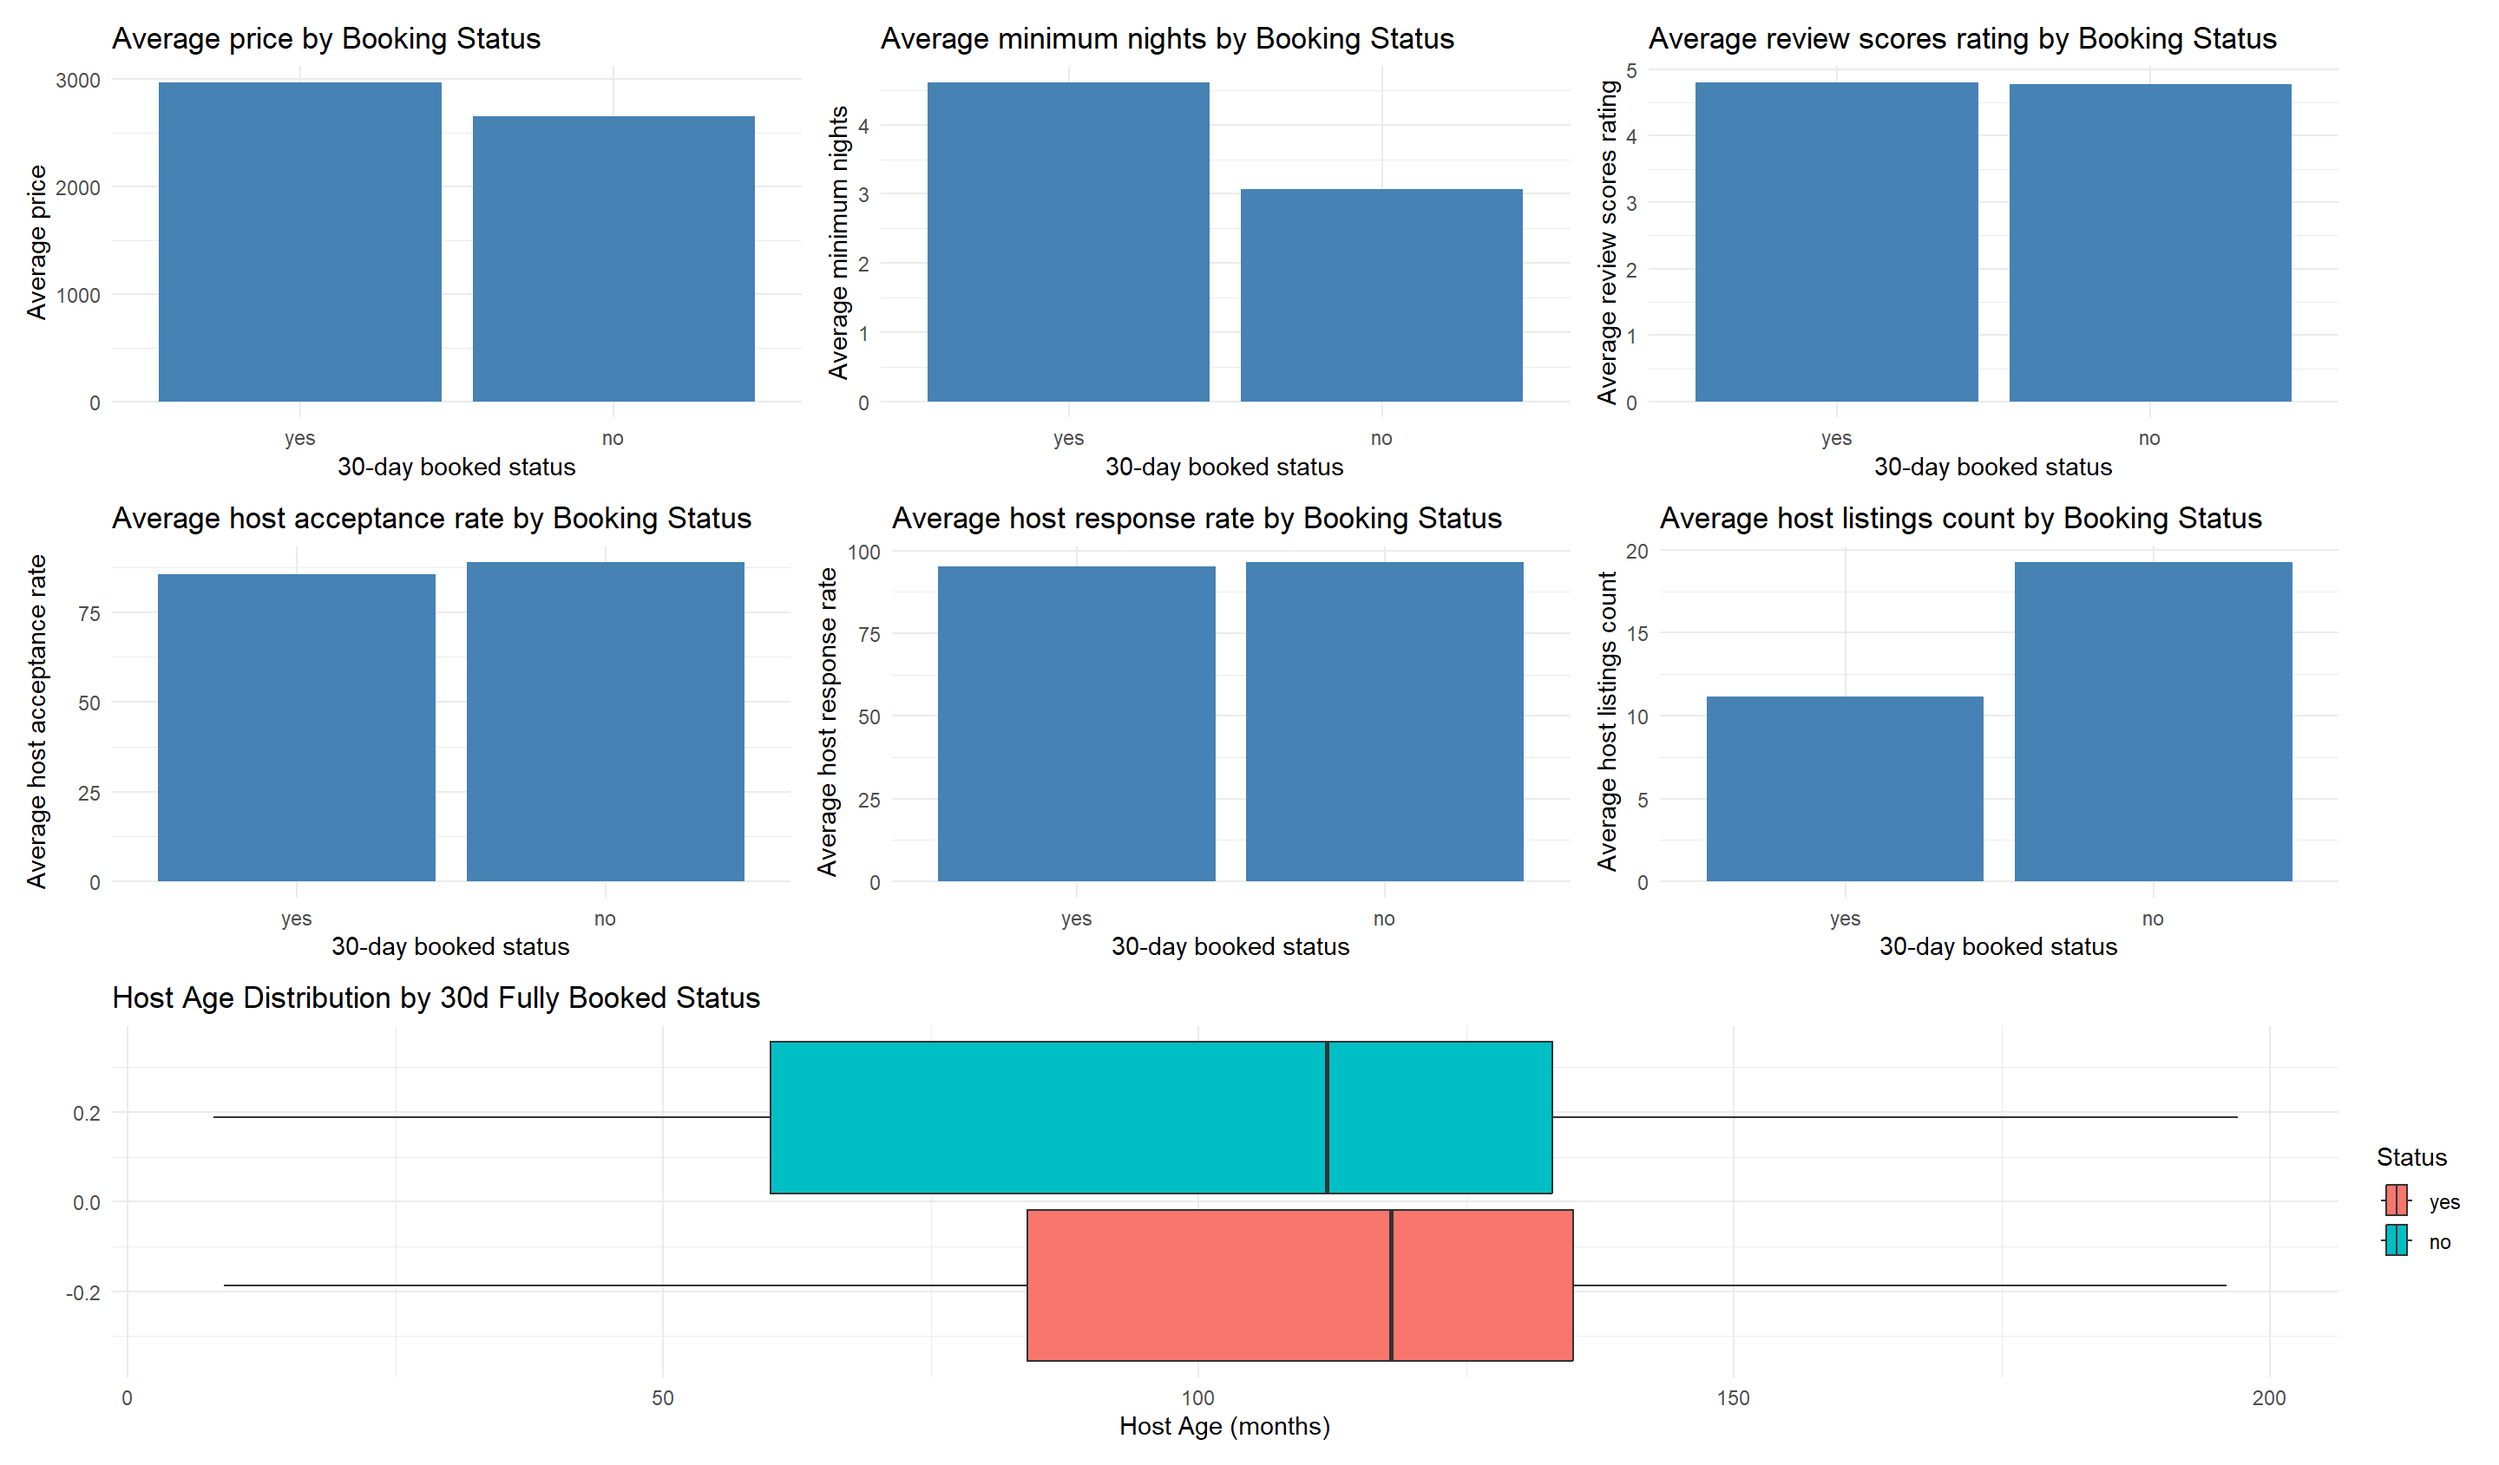
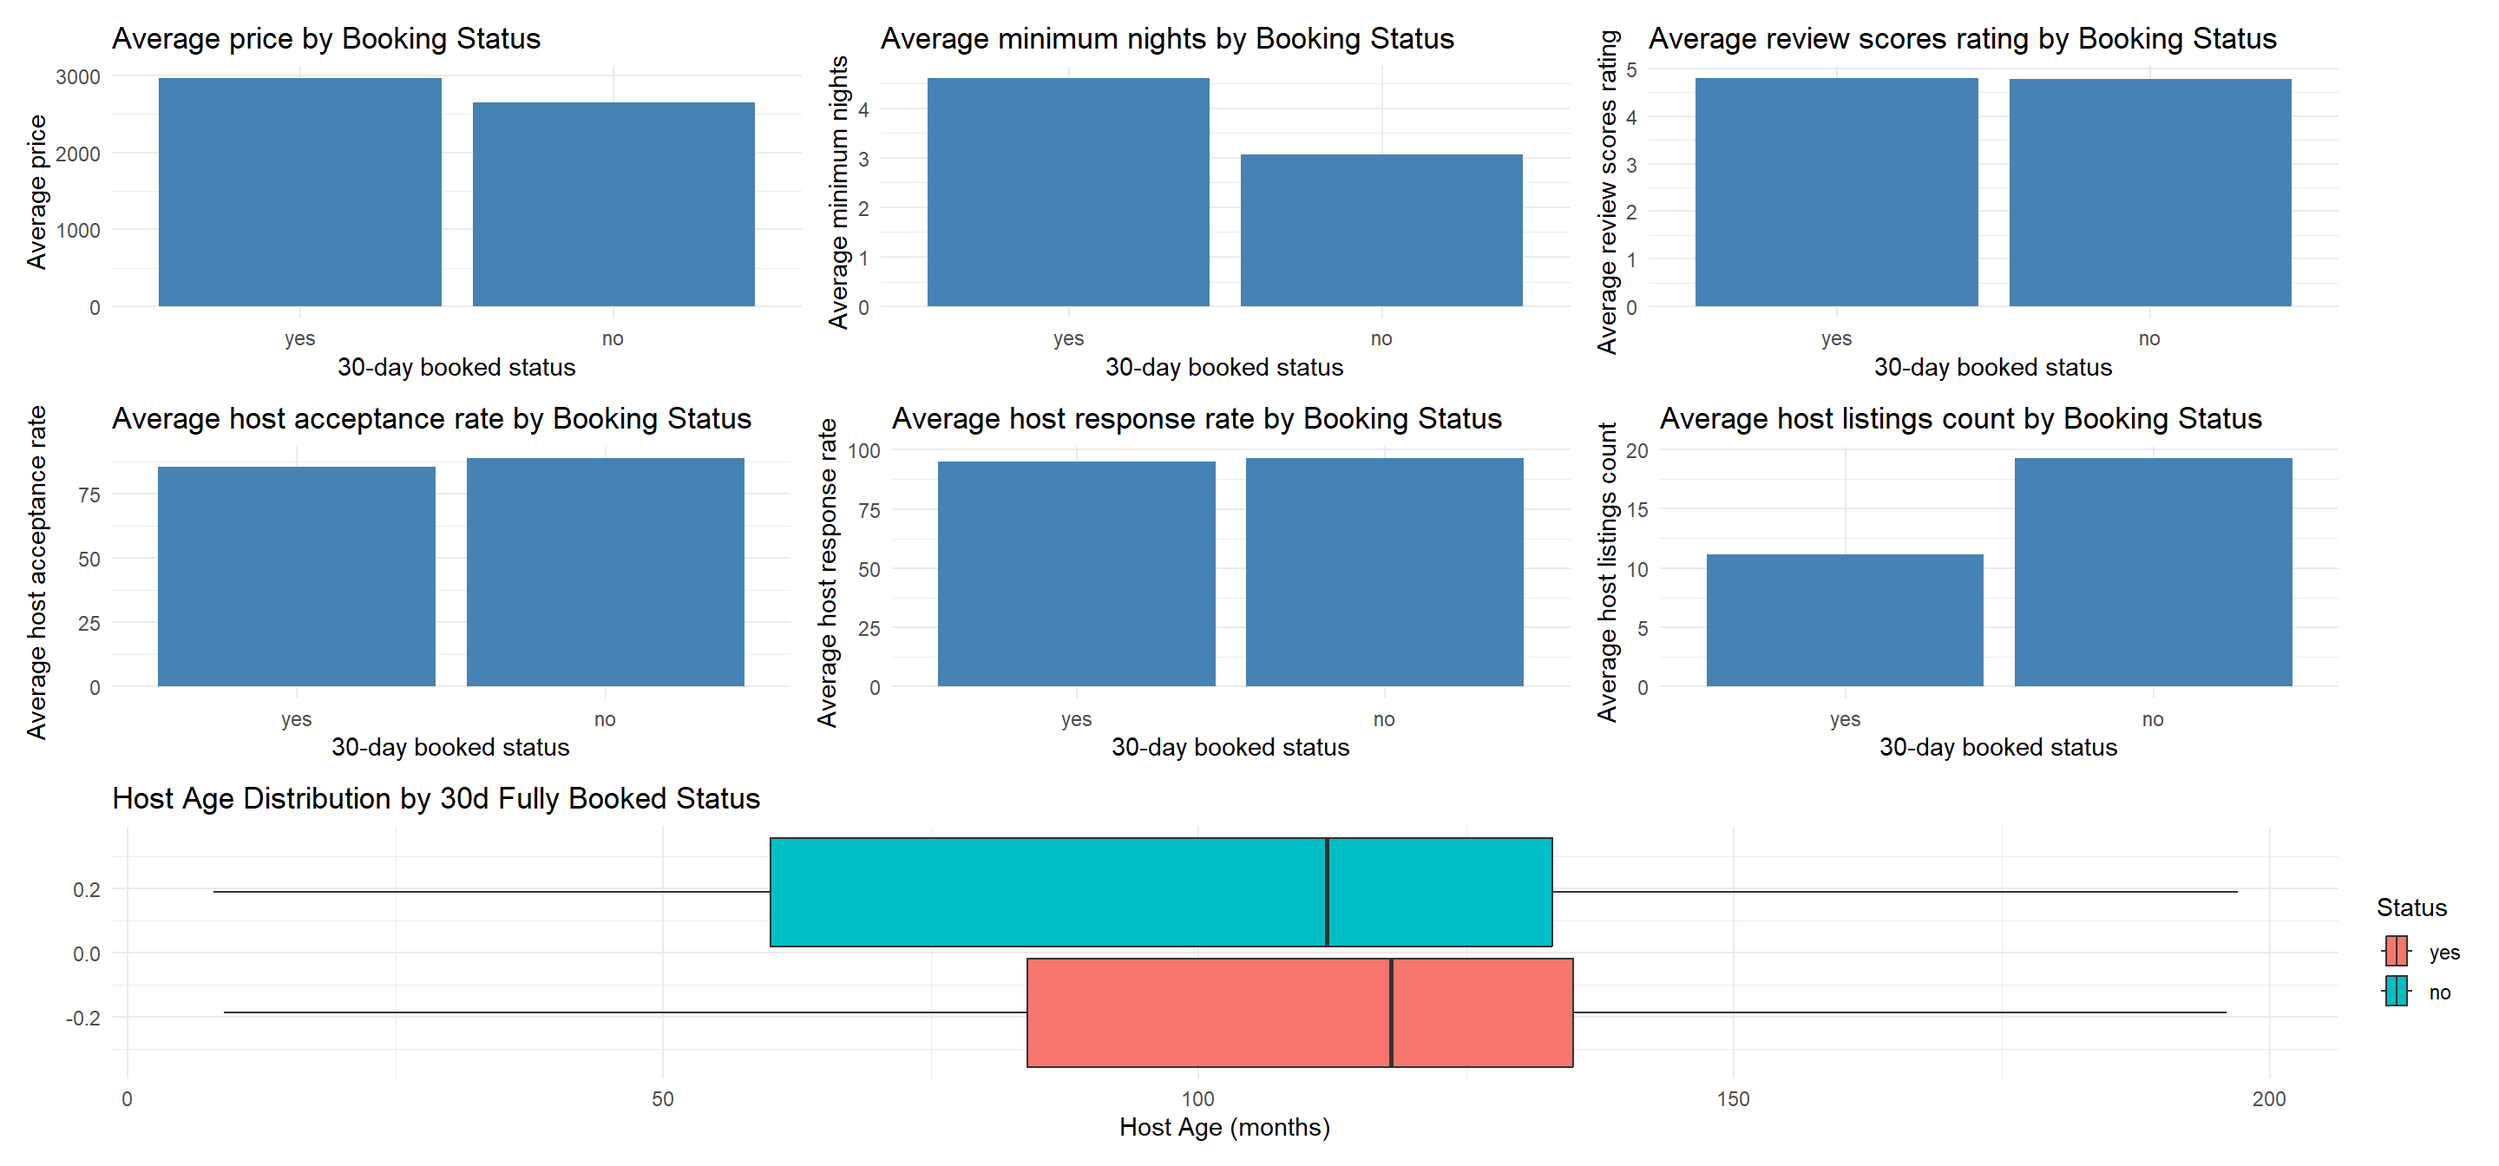
need a 30 min break

diff --git a/AirBnB_actual_presentation.html b/AirBnB_actual_presentation.html
@@ -150,6 +150,7 @@ Pamela Afful
 <li><a href="#/model-training" id="/toc-model-training">Model Training</a>
 <ul>
 <li><a href="#/linear-kernel-svm" id="/toc-linear-kernel-svm">Linear Kernel SVM</a></li>
+<li><a href="#/non-linear-svm-tuning-summary" id="/toc-non-linear-svm-tuning-summary">Non-Linear SVM Tuning Summary</a></li>
 </ul></li>
 </ul>
 </nav>
@@ -201,31 +202,33 @@ Pamela Afful
 </section>
 <section id="linear-kernel-svm" class="slide level2">
 <h2>Linear Kernel SVM</h2>
+
+<img data-src="AirBnB_actual_presentation_files/figure-revealjs/svm_model_perf-1.png" width="960" class="r-stretch"></section>
+<section id="non-linear-svm-tuning-summary" class="slide level2">
+<h2>Non-Linear SVM Tuning Summary</h2>
+<p>Cross-validation was used to train a radial-kernel SVM on the data. This kernel has an additional similarity parameter which controls the rate of similarity between points based on their distance; thus, this needs to be tuned during the cross-validation process.</p>
 <div class="cell">
-<div class="cell-output cell-output-stdout">
-<pre><code>   cost  error  dispersion
-1  0.15 0.1834 0.008016649
-2  0.30 0.1834 0.008016649
-3  0.45 0.1834 0.008016649
-4  0.60 0.1834 0.008016649
-5  0.75 0.1834 0.008016649
-6  0.90 0.1834 0.008016649
-7  1.05 0.1835 0.008195527
-8  1.20 0.1835 0.008195527
-9  1.35 0.1835 0.008195527
-10 1.50 0.1835 0.008195527
-11 1.65 0.1835 0.008195527
-12 1.80 0.1835 0.008195527
-13 1.95 0.1835 0.008195527
-14 2.10 0.1835 0.008195527
-15 2.25 0.1835 0.008195527
-16 2.40 0.1835 0.008195527
-17 2.55 0.1835 0.008195527
-18 2.70 0.1835 0.008195527
-19 2.85 0.1835 0.008195527
-20 3.00 0.1835 0.008195527</code></pre>
+<div class="cell-output-display">
+<table class="caption-top">
+<thead>
+<tr class="header">
+<th style="text-align: right;">best_cost</th>
+<th style="text-align: right;">best_gamma</th>
+<th style="text-align: right;">best_cross_validation_error</th>
+</tr>
+</thead>
+<tbody>
+<tr class="odd">
+<td style="text-align: right;">0.75</td>
+<td style="text-align: right;">0.45</td>
+<td style="text-align: right;">0.1804</td>
+</tr>
+</tbody>
+</table>
 </div>
 </div>
+
+<img data-src="tune_summ.png" width="498" class="r-stretch quarto-figure-center"><p class="caption">Non-linear SVM Tuning Summary</p><p>Across parameter combinations, the model starts to overfit as the gamma parameter increases past 0.50, as well as some higher values of gamma, past its optimal value.</p>
 
 </section></section>
     </div>
@@ -399,7 +402,7 @@ Pamela Afful
         backgroundTransition: 'none',
 
         // Number of slides away from the current that are visible
-        viewDistance: 3,
+        viewDistance: 10,
 
         // Number of slides away from the current that are visible on mobile
         // devices. It is advisable to set this to a lower number than
@@ -415,11 +418,6 @@ Pamela Afful
 
         // Factor of the display size that should remain empty around the content
         margin: 0.1,
-
-        // Bounds for smallest/largest possible scale to apply to content
-        minScale: 0.2,
-
-        maxScale: 2,
 
         math: {
           mathjax: 'https://cdn.jsdelivr.net/npm/mathjax@2.7.9/MathJax.js',
